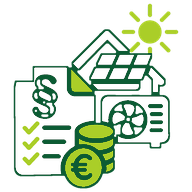
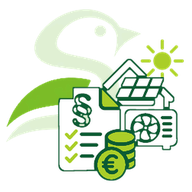
0.10.22: Auswertungen mit prozentualer Veränderung (auch im PDF), Förderung-Symbol mit Sperling
Claude-Session: https://claude.ai/code/session_01GxNyqFEuTP1RZNi5yfYKFz

diff --git a/src/ui/views/auswertung.ts b/src/ui/views/auswertung.ts
@@ -4,7 +4,7 @@ import { esc } from '../../core/util.ts';
 import { AUSGANG, SPARTEN, SPARTEN_KEYS } from '../../core/model.ts';
 import { tagVon } from '../../core/belegung.ts';
 import {
-  bericht, fokusBericht, verschieben, veraenderung, prozent, BEREICHE, PERIODEN, PERIODEN_REIHE,
+  bericht, fokusBericht, verschieben, veraenderung, veraenderungText, prozent, BEREICHE, PERIODEN, PERIODEN_REIHE,
   type Bereich, type Periode, type Bericht, type Kennzahlen, type Ausgang, type Fokus,
 } from '../../core/auswertung.ts';
 import * as store from '../../storage/store.ts';
@@ -56,6 +56,9 @@ function verlaufHtml(verlauf: Kennzahlen['verlauf'], bereich: Bereich, max: numb
 const pkt = (d: number | null) => (d === null ? '' : d === 0 ? '±0 Pkt.' : `${d > 0 ? '+' : '−'}${Math.abs(d)} Pkt.`);
 /** Standardschrift im PDF kennt kein Unicode-Minus. */
 const ansi = (s: string) => s.replace(/−/g, '-');
+const PFEIL = { auf: '▲', ab: '▼', gleich: '▶' } as const;
+const RICHTUNG = { auf: 'gestiegen', ab: 'gesunken', gleich: 'gleich geblieben' } as const;
+const PDF_RICHTUNG: Record<'auf' | 'ab' | 'gleich', [number, number, number]> = { auf: [36, 120, 30], ab: [180, 45, 45], gleich: [90, 100, 95] };
 const anteilText = (a: number | null) => (a === null ? '–' : `${Math.round(a * 100)} %`);
 
 /** Ein Satz zum Gleichgewicht. */
@@ -140,7 +143,7 @@ export function render(el: HTMLElement, params: URLSearchParams) {
     return `<div class="aw-zahl">
         <span class="aw-titel">${z.titel}</span>
         <strong>${anzeigen(z, jetzt)}</strong>
-        ${v ? `<span class="aw-delta ${v.richtung}" title="Vorzeitraum: ${anzeigen(z, vorher)}">${v.text}</span>` : '<span class="aw-delta gleich">–</span>'}
+        ${v ? `<span class="aw-delta ${v.richtung}" title="Vorzeitraum: ${anzeigen(z, vorher)}"><span class="aw-pfeil" aria-hidden="true">${PFEIL[v.richtung]}</span> ${v.text}${v.prozent ? ` <span class="aw-prozent">(${v.prozent})</span>` : ''}<span class="sr-only"> ${RICHTUNG[v.richtung]}, vorher ${anzeigen(z, vorher)}</span></span>` : '<span class="aw-delta gleich">–</span>'}
         ${z.sub ? `<small>${esc(z.sub(jetzt))}</small>` : ''}
       </div>`;
   }).join('')}</div>
@@ -192,8 +195,9 @@ export async function berichtPdf(ber: Bericht, fokus: Fokus | null = null): Prom
   doc.setTextColor(0);
 
   // Immer genau eine Seite: Zeilenhöhe und Schrift schrumpfen, wenn es viele Zeilen sind.
-  const kennzahlZeilen = zahlenFuer(ber.bereich).map((z) => [
-    z.titel, anzeigen(z, ber.jetzt), anzeigen(z, ber.vorher), ansi(veraenderung(z.wert(ber.jetzt), z.wert(ber.vorher), z.quote)?.text || '–'),
+  const kennzahlVer = zahlenFuer(ber.bereich).map((z) => veraenderung(z.wert(ber.jetzt), z.wert(ber.vorher), z.quote));
+  const kennzahlZeilen = zahlenFuer(ber.bereich).map((z, i) => [
+    z.titel, anzeigen(z, ber.jetzt), anzeigen(z, ber.vorher), ansi(veraenderungText(kennzahlVer[i]!)),
   ]);
   const erg = (Object.keys(AUSGANG) as Ausgang[]).filter((a) => ber.jetzt.ergebnisse[a] || ber.vorher.ergebnisse[a]);
   const top = ber.jetzt.topProdukte;
@@ -207,7 +211,7 @@ export async function berichtPdf(ber: Bericht, fokus: Fokus | null = null): Prom
   const zh = Math.max(3.6, Math.min(6, (unten - y - fest) / Math.max(1, zeilen)));
   const fs = Math.max(7, Math.min(10, zh * 1.7));
 
-  const tabelle = (kopf: string[], reihe: string[][], sp: number[], bis: number) => {
+  const tabelle = (kopf: string[], reihe: string[][], sp: number[], bis: number, farbe?: (zeile: number, spalte: number) => [number, number, number] | null) => {
     doc.setFont('helvetica', 'bold'); doc.setFontSize(fs);
     kopf.forEach((t, i) => { if (t) doc.text(t, sp[i]!, y); });
     doc.setDrawColor(180); doc.line(sp[0]!, y + 1.5, bis, y + 1.5);
@@ -220,10 +224,11 @@ export async function berichtPdf(ber: Bericht, fokus: Fokus | null = null): Prom
       while (x.length > 1 && doc.getTextWidth(`${x}…`) > breite) x = x.slice(0, -1);
       return `${x.trimEnd()}…`;
     };
-    for (const z of reihe) { z.forEach((t, i) => { if (t) doc.text(passend(t, (sp[i + 1] ?? bis) - sp[i]! - 2), sp[i]!, yy); }); yy += zh; }
+    reihe.forEach((z, n) => { z.forEach((t, i) => { if (!t) return; const f = farbe?.(n, i); if (f) doc.setTextColor(...f); doc.text(passend(t, (sp[i + 1] ?? bis) - sp[i]! - 2), sp[i]!, yy); if (f) doc.setTextColor(0); }); yy += zh; });
     return yy;
   };
-  y = tabelle(['Kennzahl', 'Jetzt', 'Vorher', 'Veränderung'], kennzahlZeilen, [R, R + 92, R + 118, R + 144], B - R) + 4;
+  y = tabelle(['Kennzahl', 'Jetzt', 'Vorher', 'Veränderung (%)'], kennzahlZeilen, [R, R + 88, R + 110, R + 132], B - R,
+    (n, i) => (i === 3 && kennzahlVer[n] ? PDF_RICHTUNG[kennzahlVer[n]!.richtung] : null)) + 4;
   if (zweiSpalten) {
     const mitte = R + 90;
     doc.setFont('helvetica', 'bold'); doc.setFontSize(Math.min(12, fs + 2));

diff --git a/src/core/auswertung.ts b/src/core/auswertung.ts
@@ -209,14 +209,31 @@ function verlaufAbschnitte(periode: Periode, von: Tag, bis: Tag) {
   return out;
 }
 
-/** Veränderung gegenüber dem Vorzeitraum, z. B. „+3“ oder „−12 %“. Quoten in Prozentpunkten. */
-export function veraenderung(jetzt: number | null, vorher: number | null, quote = false): { text: string; richtung: 'auf' | 'ab' | 'gleich' } | null {
+export interface Veraenderung {
+  /** Differenz, z. B. „+3“, „−1“, „±0“; bei Quoten „+25 Pkt.“ */
+  text: string;
+  richtung: 'auf' | 'ab' | 'gleich';
+  /** Prozentuale Veränderung zum Vorzeitraum, z. B. „+25 %“; „neu“, wenn vorher 0 war; null bei Quoten und 0 → 0 */
+  prozent: string | null;
+}
+
+/** Veränderung gegenüber dem Vorzeitraum: Differenz und prozentuale Veränderung. Quoten nur in Prozentpunkten. */
+export function veraenderung(jetzt: number | null, vorher: number | null, quote = false): Veraenderung | null {
   if (jetzt === null || vorher === null) return null;
   const diff = quote ? Math.round((jetzt - vorher) * 100) : jetzt - vorher;
-  if (diff === 0) return { text: '±0', richtung: 'gleich' };
-  const zahl = `${diff > 0 ? '+' : '−'}${Math.abs(diff)}`;
-  return { text: quote ? `${zahl} Pkt.` : zahl, richtung: diff > 0 ? 'auf' : 'ab' };
+  const vz = (n: number) => (n > 0 ? '+' : n < 0 ? '−' : '±');
+  let prozent: string | null = null;
+  if (!quote) {
+    if (vorher > 0) { const p = Math.round(((jetzt - vorher) / vorher) * 100); prozent = `${vz(p)}${Math.abs(p).toLocaleString('de-DE')} %`; }
+    else if (jetzt > 0) prozent = 'neu';
+  }
+  if (diff === 0) return { text: '±0', richtung: 'gleich', prozent };
+  const zahl = `${vz(diff)}${Math.abs(diff)}`;
+  return { text: quote ? `${zahl} Pkt.` : zahl, richtung: diff > 0 ? 'auf' : 'ab', prozent };
 }
+
+/** Veränderung als ein Text, z. B. „+3 (+25 %)“, „+2 (neu)“, „+5 Pkt.“ */
+export const veraenderungText = (v: Veraenderung | null) => (!v ? '–' : v.prozent ? `${v.text} (${v.prozent})` : v.text);
 
 export const prozent = (q: number | null) => (q === null ? '–' : `${Math.round(q * 100)} %`);
 

diff --git a/src/core/hilfe.ts b/src/core/hilfe.ts
@@ -224,6 +224,7 @@ export const BEGRIFFE: [string, string][] = [
 ];
 
 export const FRAGEN: [string, string][] = [
+  ['Was bedeutet „(+25 %)“ in den Auswertungen?', 'Die Veränderung gegenüber dem Vorzeitraum in Prozent. Davor steht die Differenz als Zahl, der Pfeil zeigt die Richtung (▲ mehr, ▼ weniger, ▶ gleich). „(neu)“ heißt: im Vorzeitraum war es 0. Bei Quoten steht die Veränderung in Prozentpunkten (Pkt.).'],
   ['Wie viele Fotos passen auf das Gerät?', 'Je Foto etwa 150 bis 300 KB, je Kunde bis 200 Fotos. Unter Einstellungen → Kundenfotos siehst du die Gesamtgröße und kannst alte Fotos löschen oder sie aus der iCloud-Sicherung herausnehmen.'],
   ['Wo finde ich die Rund-Tour?', 'Oben auf dieser Hilfe-Seite („Rund-Tour starten“), in den Einstellungen unter Hilfe, auf dem iPhone und dem iPad hochkant unter „Mehr“ und über die Suche („Tour“). Beim ersten Start bietet Sperling sie einmal an.'],
   ['Wo liegen meine Daten?', 'Nur auf deinem Gerät, verschlüsselt mit deinem Master-Passwort. Sicherungen legst du selbst verschlüsselt in iCloud Drive ab. Der Webserver kennt nur das Programm.'],

diff --git a/src/css/app.css b/src/css/app.css
@@ -509,6 +509,9 @@ body.ka-aktiv { overflow: hidden; }
 .aw-delta.auf { color: color-mix(in srgb, var(--gruen) 75%, var(--text)); background: color-mix(in srgb, var(--gruen) 14%, transparent); }
 .aw-delta.ab { color: color-mix(in srgb, var(--rot) 75%, var(--text)); background: color-mix(in srgb, var(--rot) 14%, transparent); }
 .aw-delta.gleich { color: var(--text-2); }
+.aw-zahl .aw-delta { display: inline-flex; align-items: baseline; gap: .25rem; flex-wrap: wrap; }
+.aw-pfeil { font-size: .7em; }
+.aw-prozent { font-weight: 600; opacity: .9; }
 .aw-verlauf { display: grid; grid-template-columns: repeat(var(--n), 1fr); gap: 2px; height: 160px; align-items: end; padding-bottom: 1.2rem; }
 .aw-saeule { position: relative; height: 100%; display: flex; align-items: flex-end; }
 .aw-saeule span { display: block; width: 100%; background: var(--bereich); border-radius: 4px 4px 0 0; min-height: 0; }

diff --git a/src/neuigkeiten.ts b/src/neuigkeiten.ts
@@ -2,6 +2,13 @@
 // Bei jeder Version mit sichtbaren Änderungen hier einen Eintrag ergänzen (siehe REGELN R-VERSION).
 export const NEUIGKEITEN = [
   {
+    version: '0.10.22',
+    punkte: [
+      'Auswertungen: Neben jeder Zahl steht jetzt auch die Veränderung in Prozent zum Vorzeitraum, mit Pfeil, z. B. „▲ +1 (+50 %)“. Auch im PDF-Bericht.',
+      'Das Symbol für Förderung hat jetzt den Sperling dabei, wie die anderen Symbole.',
+    ],
+  },
+  {
     version: '0.10.21',
     punkte: [
       'iPad hochkant: Unten gibt es jetzt „Mehr“ mit Produkte, Förderung, Sperren und den übrigen Bereichen.',

diff --git a/CHANGELOG.md b/CHANGELOG.md
@@ -1,5 +1,9 @@
 # Änderungsverlauf
 
+## 0.10.22 – 07.11.2026
+- **Auswertungen: prozentuale Veränderung.** Jede Kennzahl zeigt neben der Differenz die Veränderung in Prozent zum Vorzeitraum, mit Pfeil (▲ ▼ ▶) und Vorzeichen, nicht nur über die Farbe erkennbar, z. B. „▼ −10 (−43 %)“. War der Vorzeitraum 0, steht „(neu)“; Quoten bleiben in Prozentpunkten. Bildschirmleser hören „gestiegen/gesunken, vorher …“. Im PDF-Bericht Spalte „Veränderung (%)“, grün/rot gefärbt (`veraenderung()` liefert `prozent`, neu `veraenderungText()`).
+- **Förderung-Symbol** jetzt als ganzes Logo mit Sperling und Blatt, in den Farben der übrigen Symbole (hell und dunkel).
+
 ## 0.10.21 – 07.11.2026
 - **iPad hochkant (640–899 px):** Leiste unten wie am iPhone mit „Mehr“; Produkte, Förderung, Sperren und die übrigen Bereiche sind dort wieder erreichbar. Rund-Tour: „Zu finden unter „Mehr““ statt „Auf dem iPhone …“.
 - **Kundenliste und Kundenkartei am Handy:** Name bekommt die ganze Breite und bricht um; Kontakt-Alter und PV/WP/VW stehen darunter.

diff --git a/docs/STAND.md b/docs/STAND.md
@@ -2,7 +2,7 @@
 
 > Diese Datei ist die erste Anlaufstelle. Sie wird bei **jeder** Änderung aktualisiert (siehe REGELN.md, R-DOKU).
 
-**Letzte Aktualisierung:** 07.11.2026 · **Version:** 0.10.21
+**Letzte Aktualisierung:** 07.11.2026 · **Version:** 0.10.22
 
 ## Echte App vs. Demo – was zum Produktivbetrieb fehlt
 
@@ -14,7 +14,11 @@ Was nur der Auftraggeber/Nutzer erledigen kann:
 
 Was in der Demo eingeschränkt ist, in der echten App aber funktioniert: Kartenbilder (Satellit/Straße), Adresssuche, Anrufen, Mailprogramm öffnen, Speichern.
 
-## Erledigt (Version 0.10.21)
+## Erledigt (Version 0.10.22)
+
+### Neu in 0.10.22
+- [x] Auswertungen: prozentuale Veränderung zum Vorzeitraum mit Pfeil und Vorzeichen, auch im PDF.
+- [x] Förderung-Symbol mit Sperling und Blatt wie die übrigen Symbole.
 
 ### Neu in 0.10.21 (Befunde aus dem Rundumcheck)
 - [x] iPad hochkant: „Mehr“ in der Leiste (Produkte, Sperren erreichbar), Tour-Texte angepasst.
